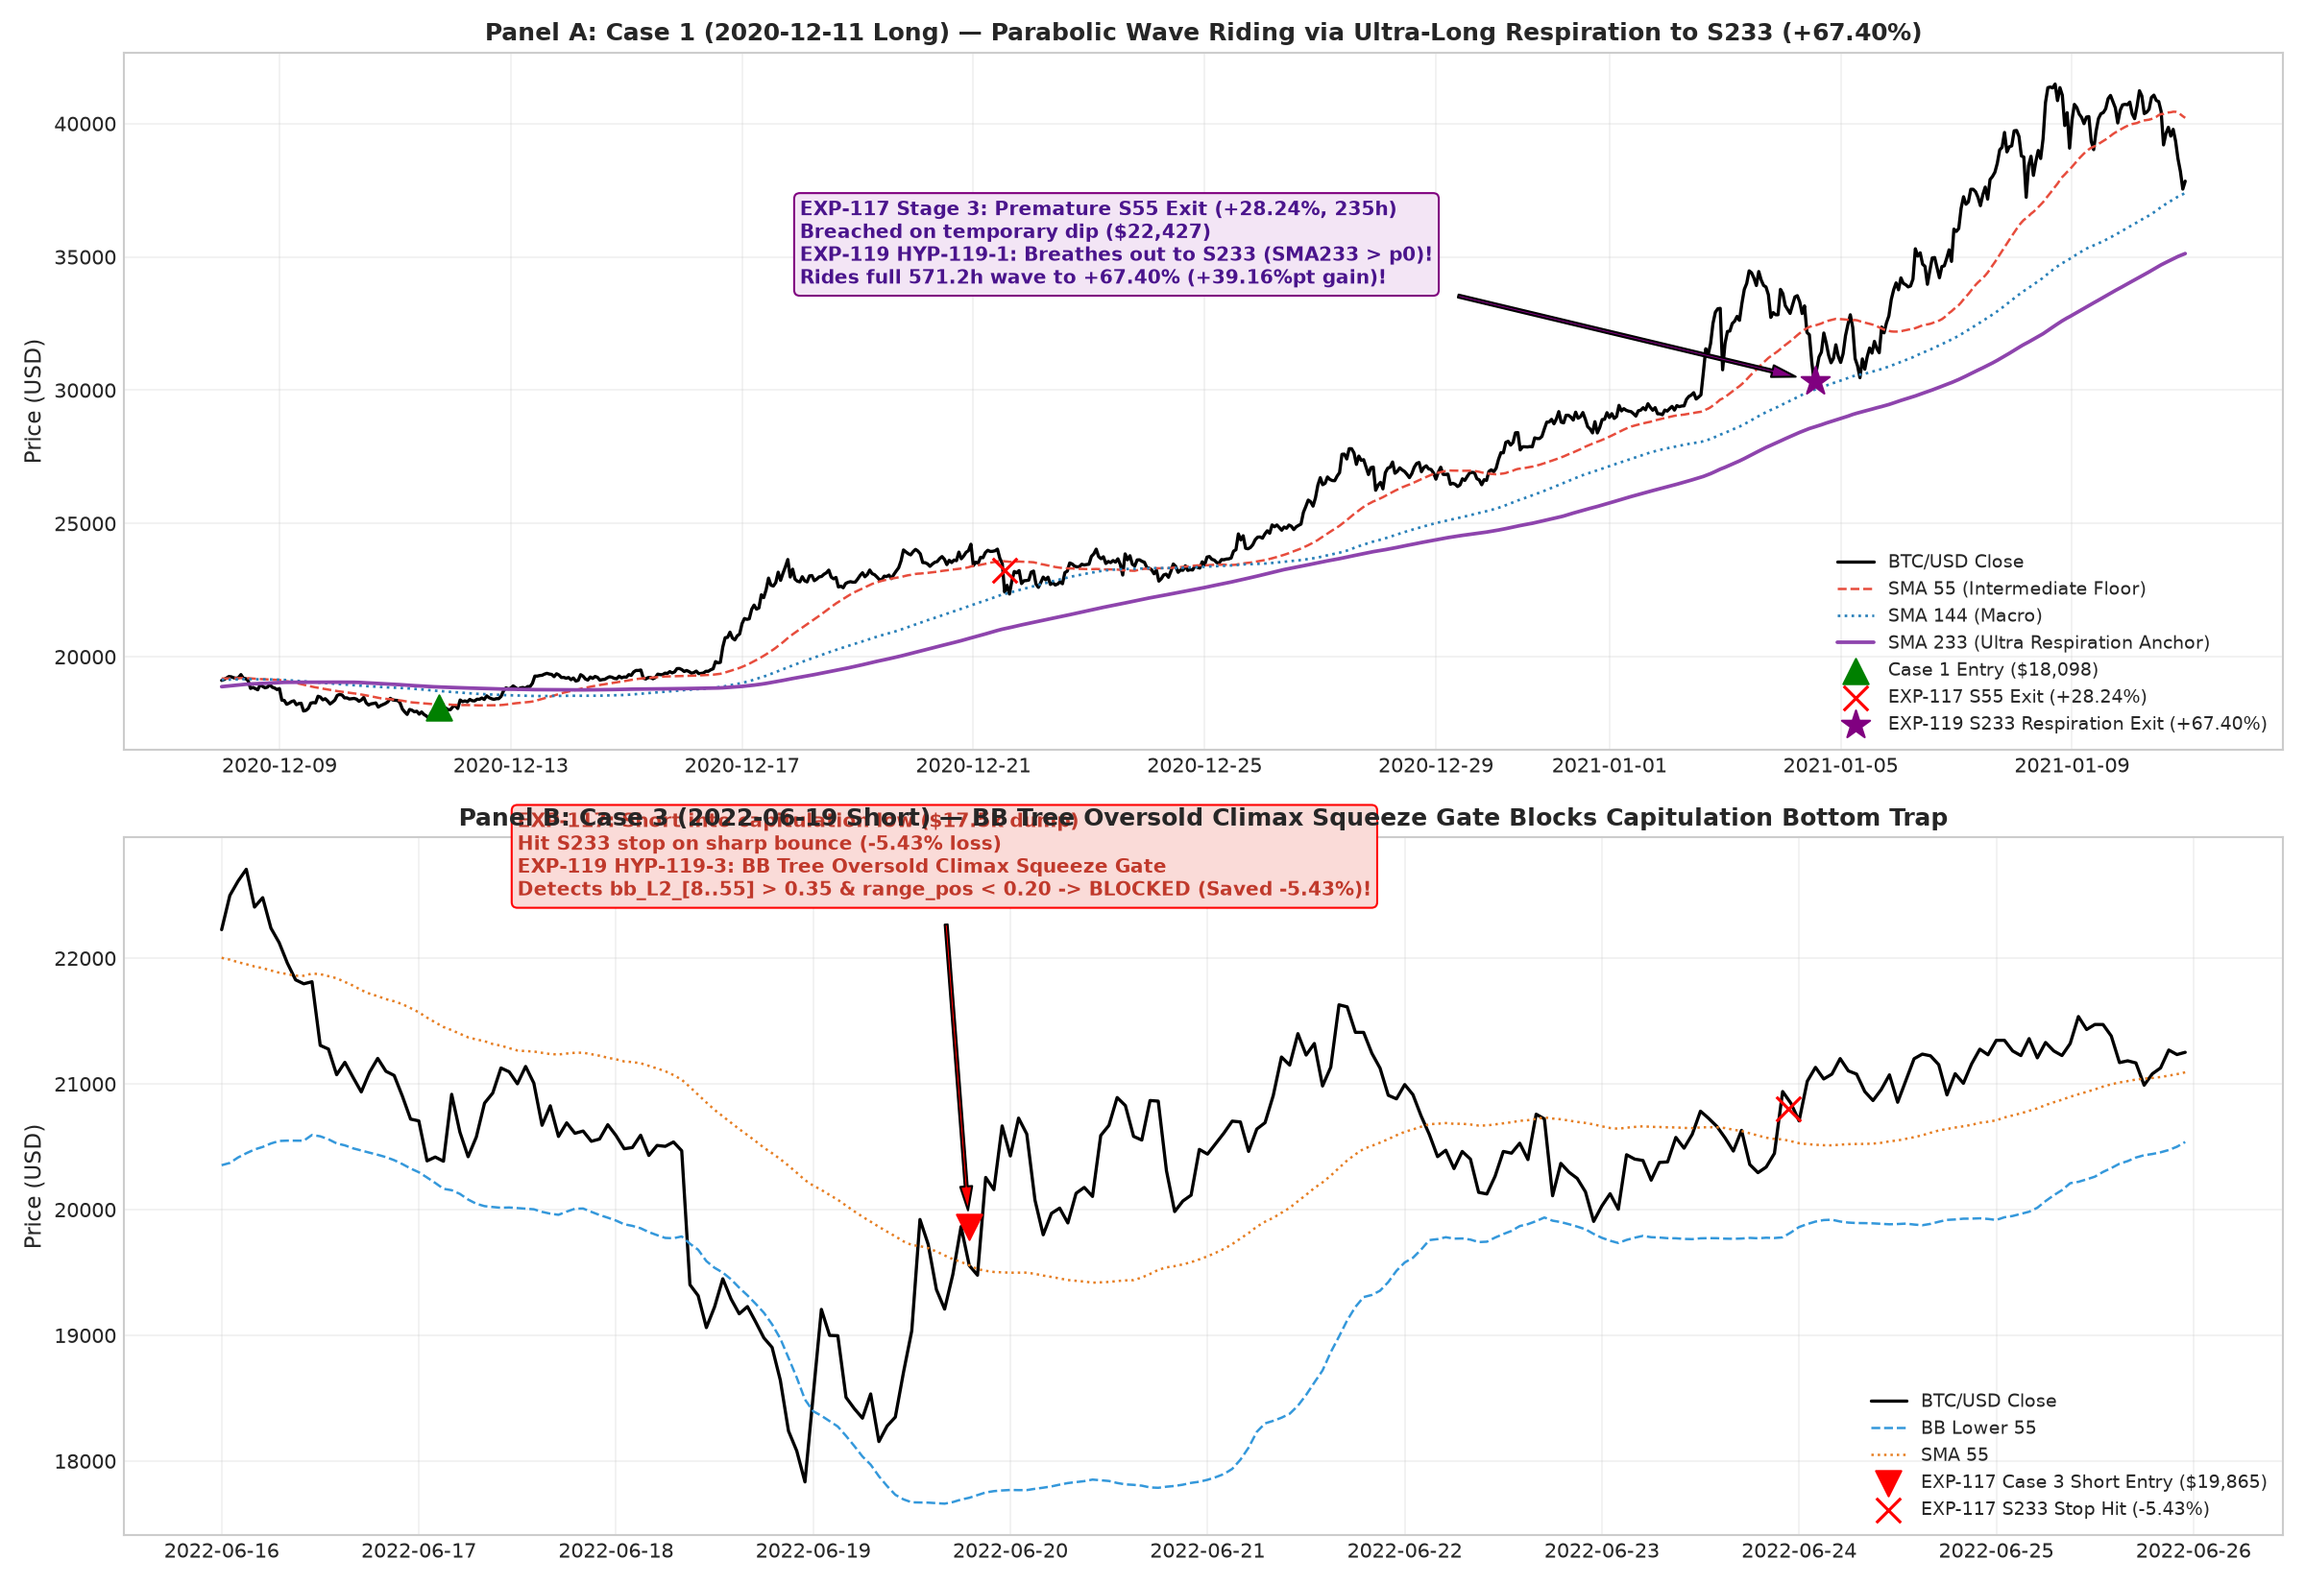
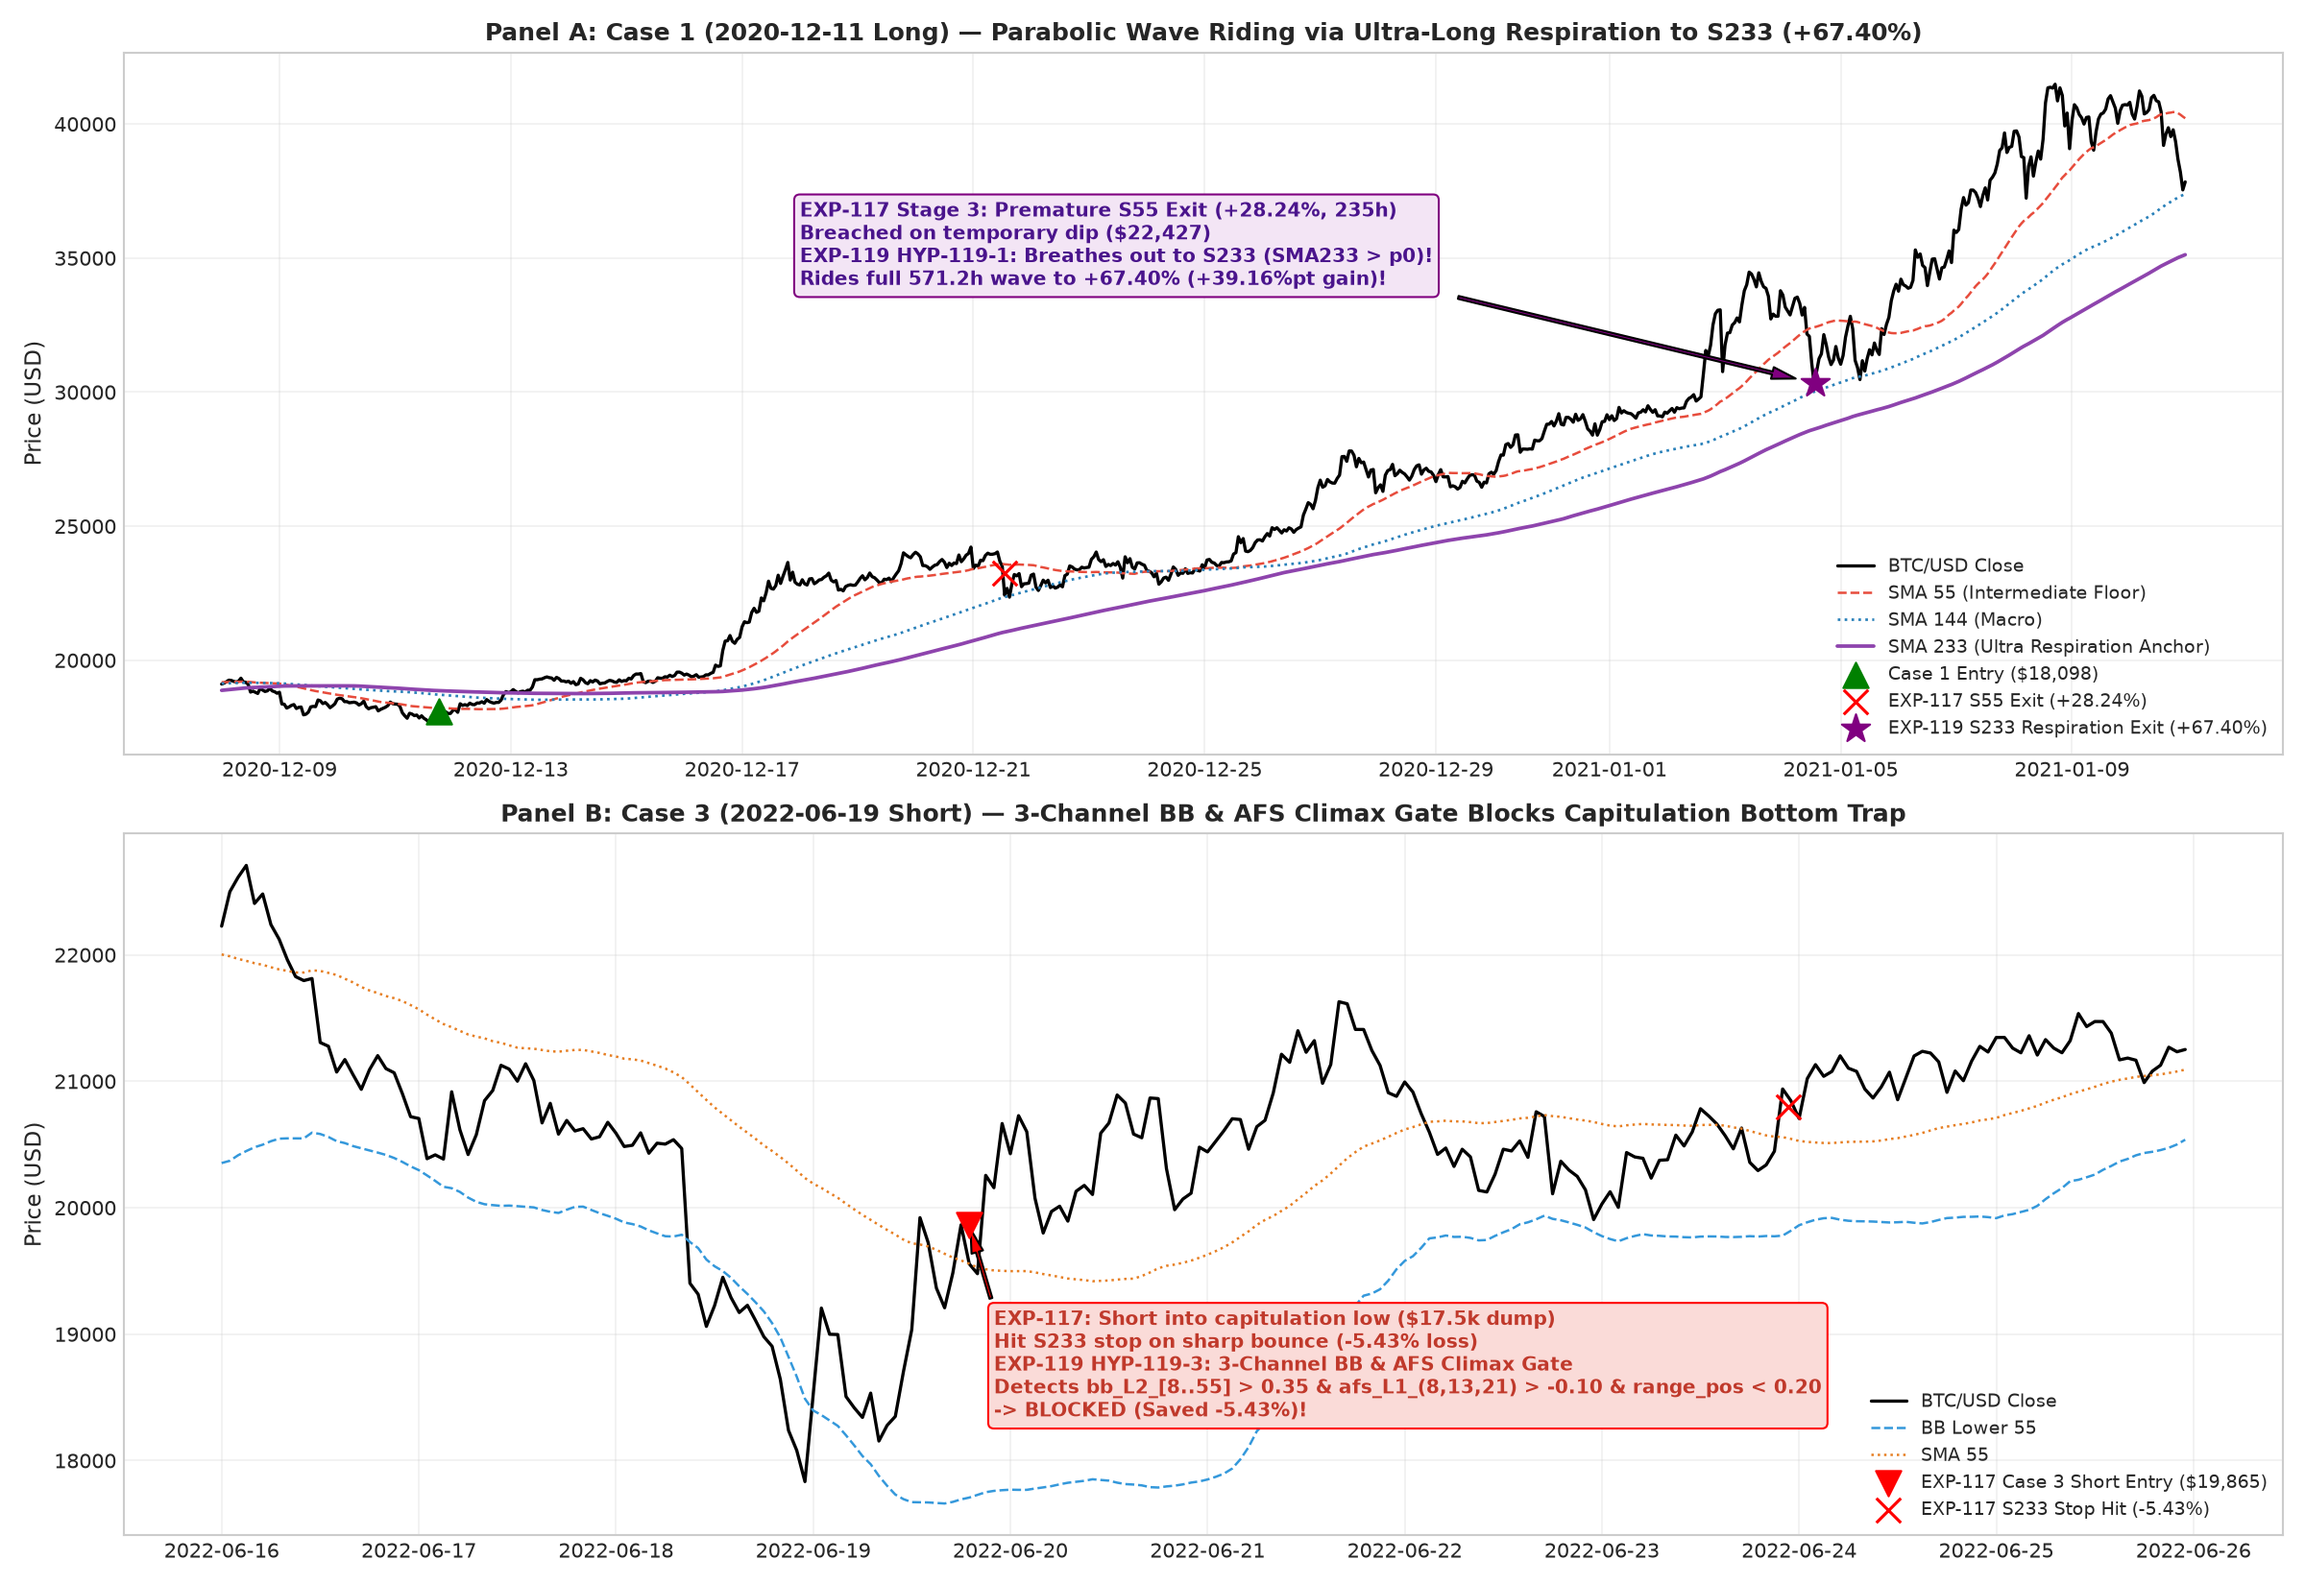
fix(exp-119): refine 3-channel BB/AFS gate and panel B annotation layout (#119)

diff --git a/03_KNOWLEDGE/experiments/119-ultra-long-3channel-tree-pyramid/run.py b/03_KNOWLEDGE/experiments/119-ultra-long-3channel-tree-pyramid/run.py
@@ -463,9 +463,13 @@ def simulate_exp119_short(events, df_1h, df_1m,
             continue
         row_0 = df_1h.loc[t0]
 
-        # HYP-119-3: BB Tree Oversold Climax Squeeze Gate
+        # HYP-119-3: 3-Channel BB & AFS Tree Oversold Climax Squeeze Gate
         if enable_bb_climax_gate:
-            is_oversold_exhaustion = (row_0['range_pos_720h'] < 0.20) and (row_0['bb_L2_[8..55]'] > 0.35)
+            is_oversold_exhaustion = (
+                (row_0['range_pos_720h'] < 0.20) and
+                (row_0['bb_L2_[8..55]'] > 0.35) and
+                (row_0['afs_L1_(8,13,21)'] > -0.10)
+            )
             if is_oversold_exhaustion:
                 continue
 
@@ -1085,15 +1089,15 @@ def run_experiment():
     ax_c3.scatter([pd.Timestamp('2022-06-23 22:40:00+00:00')], [20800.0], color='red', marker='x', s=150, zorder=6, label='EXP-117 S233 Stop Hit (-5.43%)')
 
     ax_c3.annotate(
-        "EXP-117: Short into capitulation low ($17.5k dump)\nHit S233 stop on sharp bounce (-5.43% loss)\nEXP-119 HYP-119-3: BB Tree Oversold Climax Squeeze Gate\nDetects bb_L2_[8..55] > 0.35 & range_pos < 0.20 -> BLOCKED (Saved -5.43%)!",
+        "EXP-117: Short into capitulation low ($17.5k dump)\nHit S233 stop on sharp bounce (-5.43% loss)\nEXP-119 HYP-119-3: 3-Channel BB & AFS Climax Gate\nDetects bb_L2_[8..55] > 0.35 & afs_L1_(8,13,21) > -0.10 & range_pos < 0.20\n-> BLOCKED (Saved -5.43%)!",
         xy=(t_entry_c3, p_entry_c3),
-        xytext=(pd.Timestamp('2022-06-17 12:00:00+00:00'), 22500),
+        xytext=(pd.Timestamp('2022-06-19 22:00:00+00:00'), 18350),
         arrowprops=dict(facecolor='red', shrink=0.05, width=1.5, headwidth=6),
         fontsize=9.5, fontweight='bold', color='#c0392b',
         bbox=dict(boxstyle='round,pad=0.3', facecolor='#fadbd8', edgecolor='red')
     )
 
-    ax_c3.set_title('Panel B: Case 3 (2022-06-19 Short) — BB Tree Oversold Climax Squeeze Gate Blocks Capitulation Bottom Trap', fontsize=12, fontweight='bold')
+    ax_c3.set_title('Panel B: Case 3 (2022-06-19 Short) — 3-Channel BB & AFS Climax Gate Blocks Capitulation Bottom Trap', fontsize=12, fontweight='bold')
     ax_c3.set_ylabel('Price (USD)', fontsize=11)
     ax_c3.legend(loc='lower right', fontsize=9, framealpha=0.9)
     ax_c3.grid(True, alpha=0.3)
